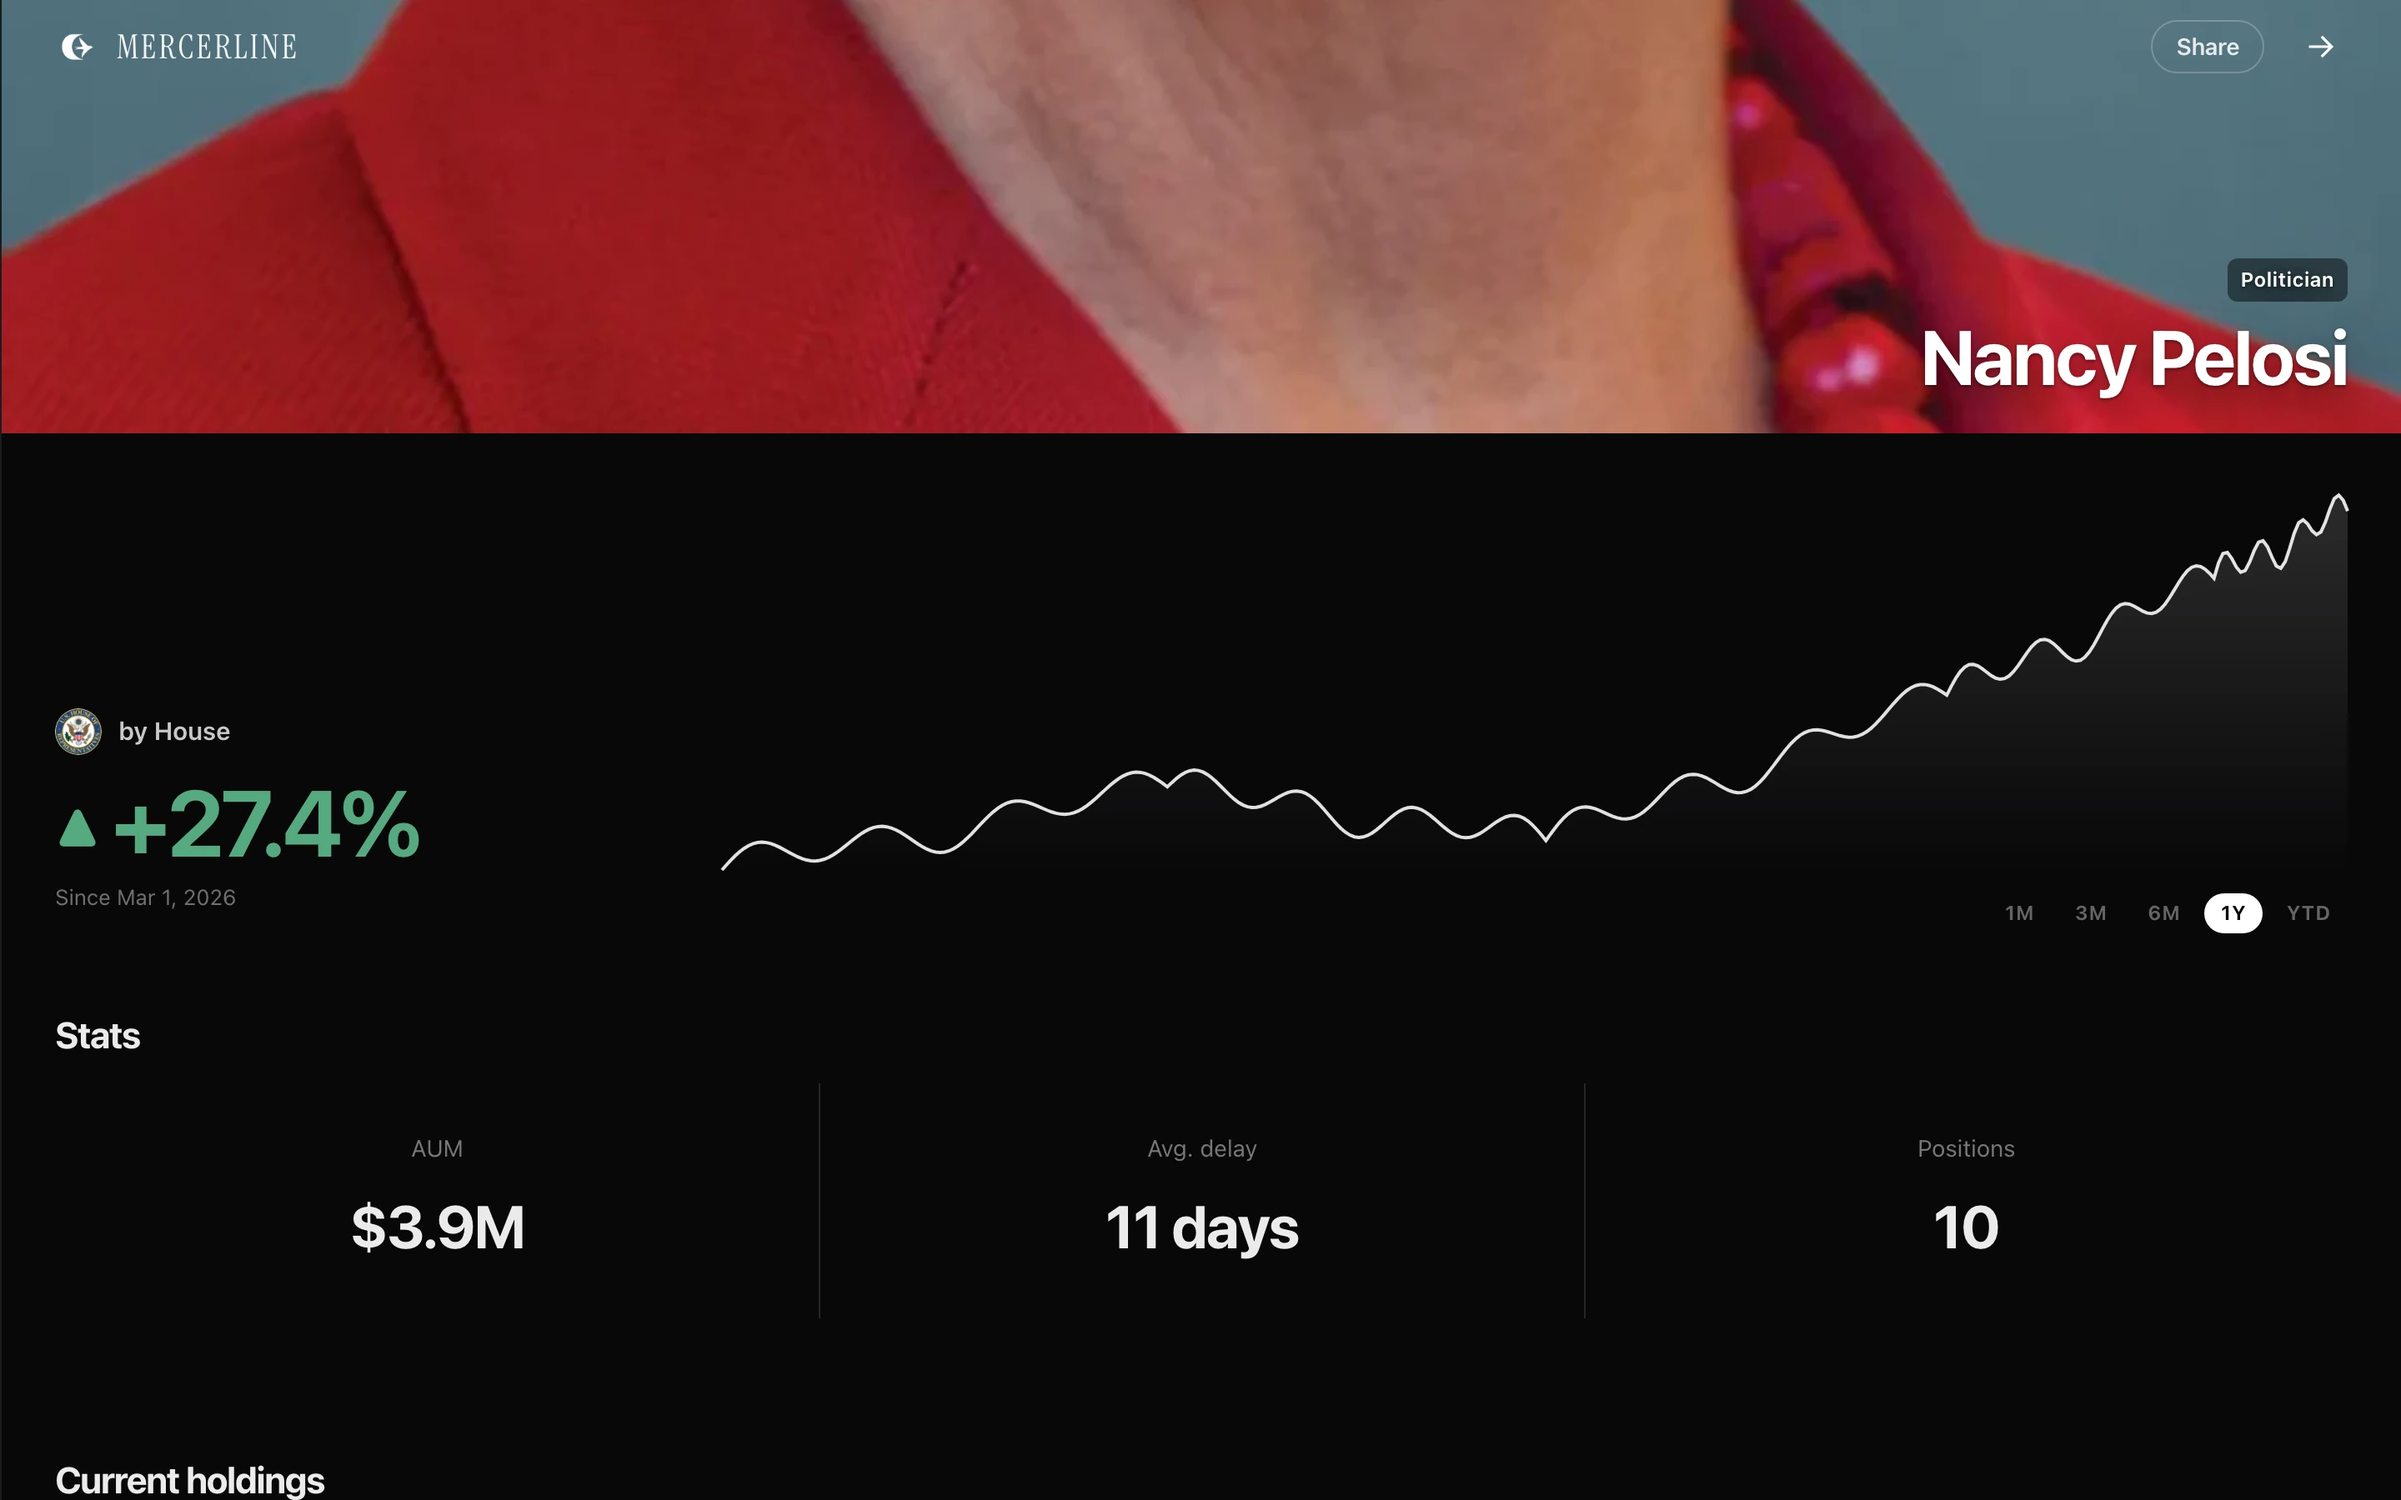
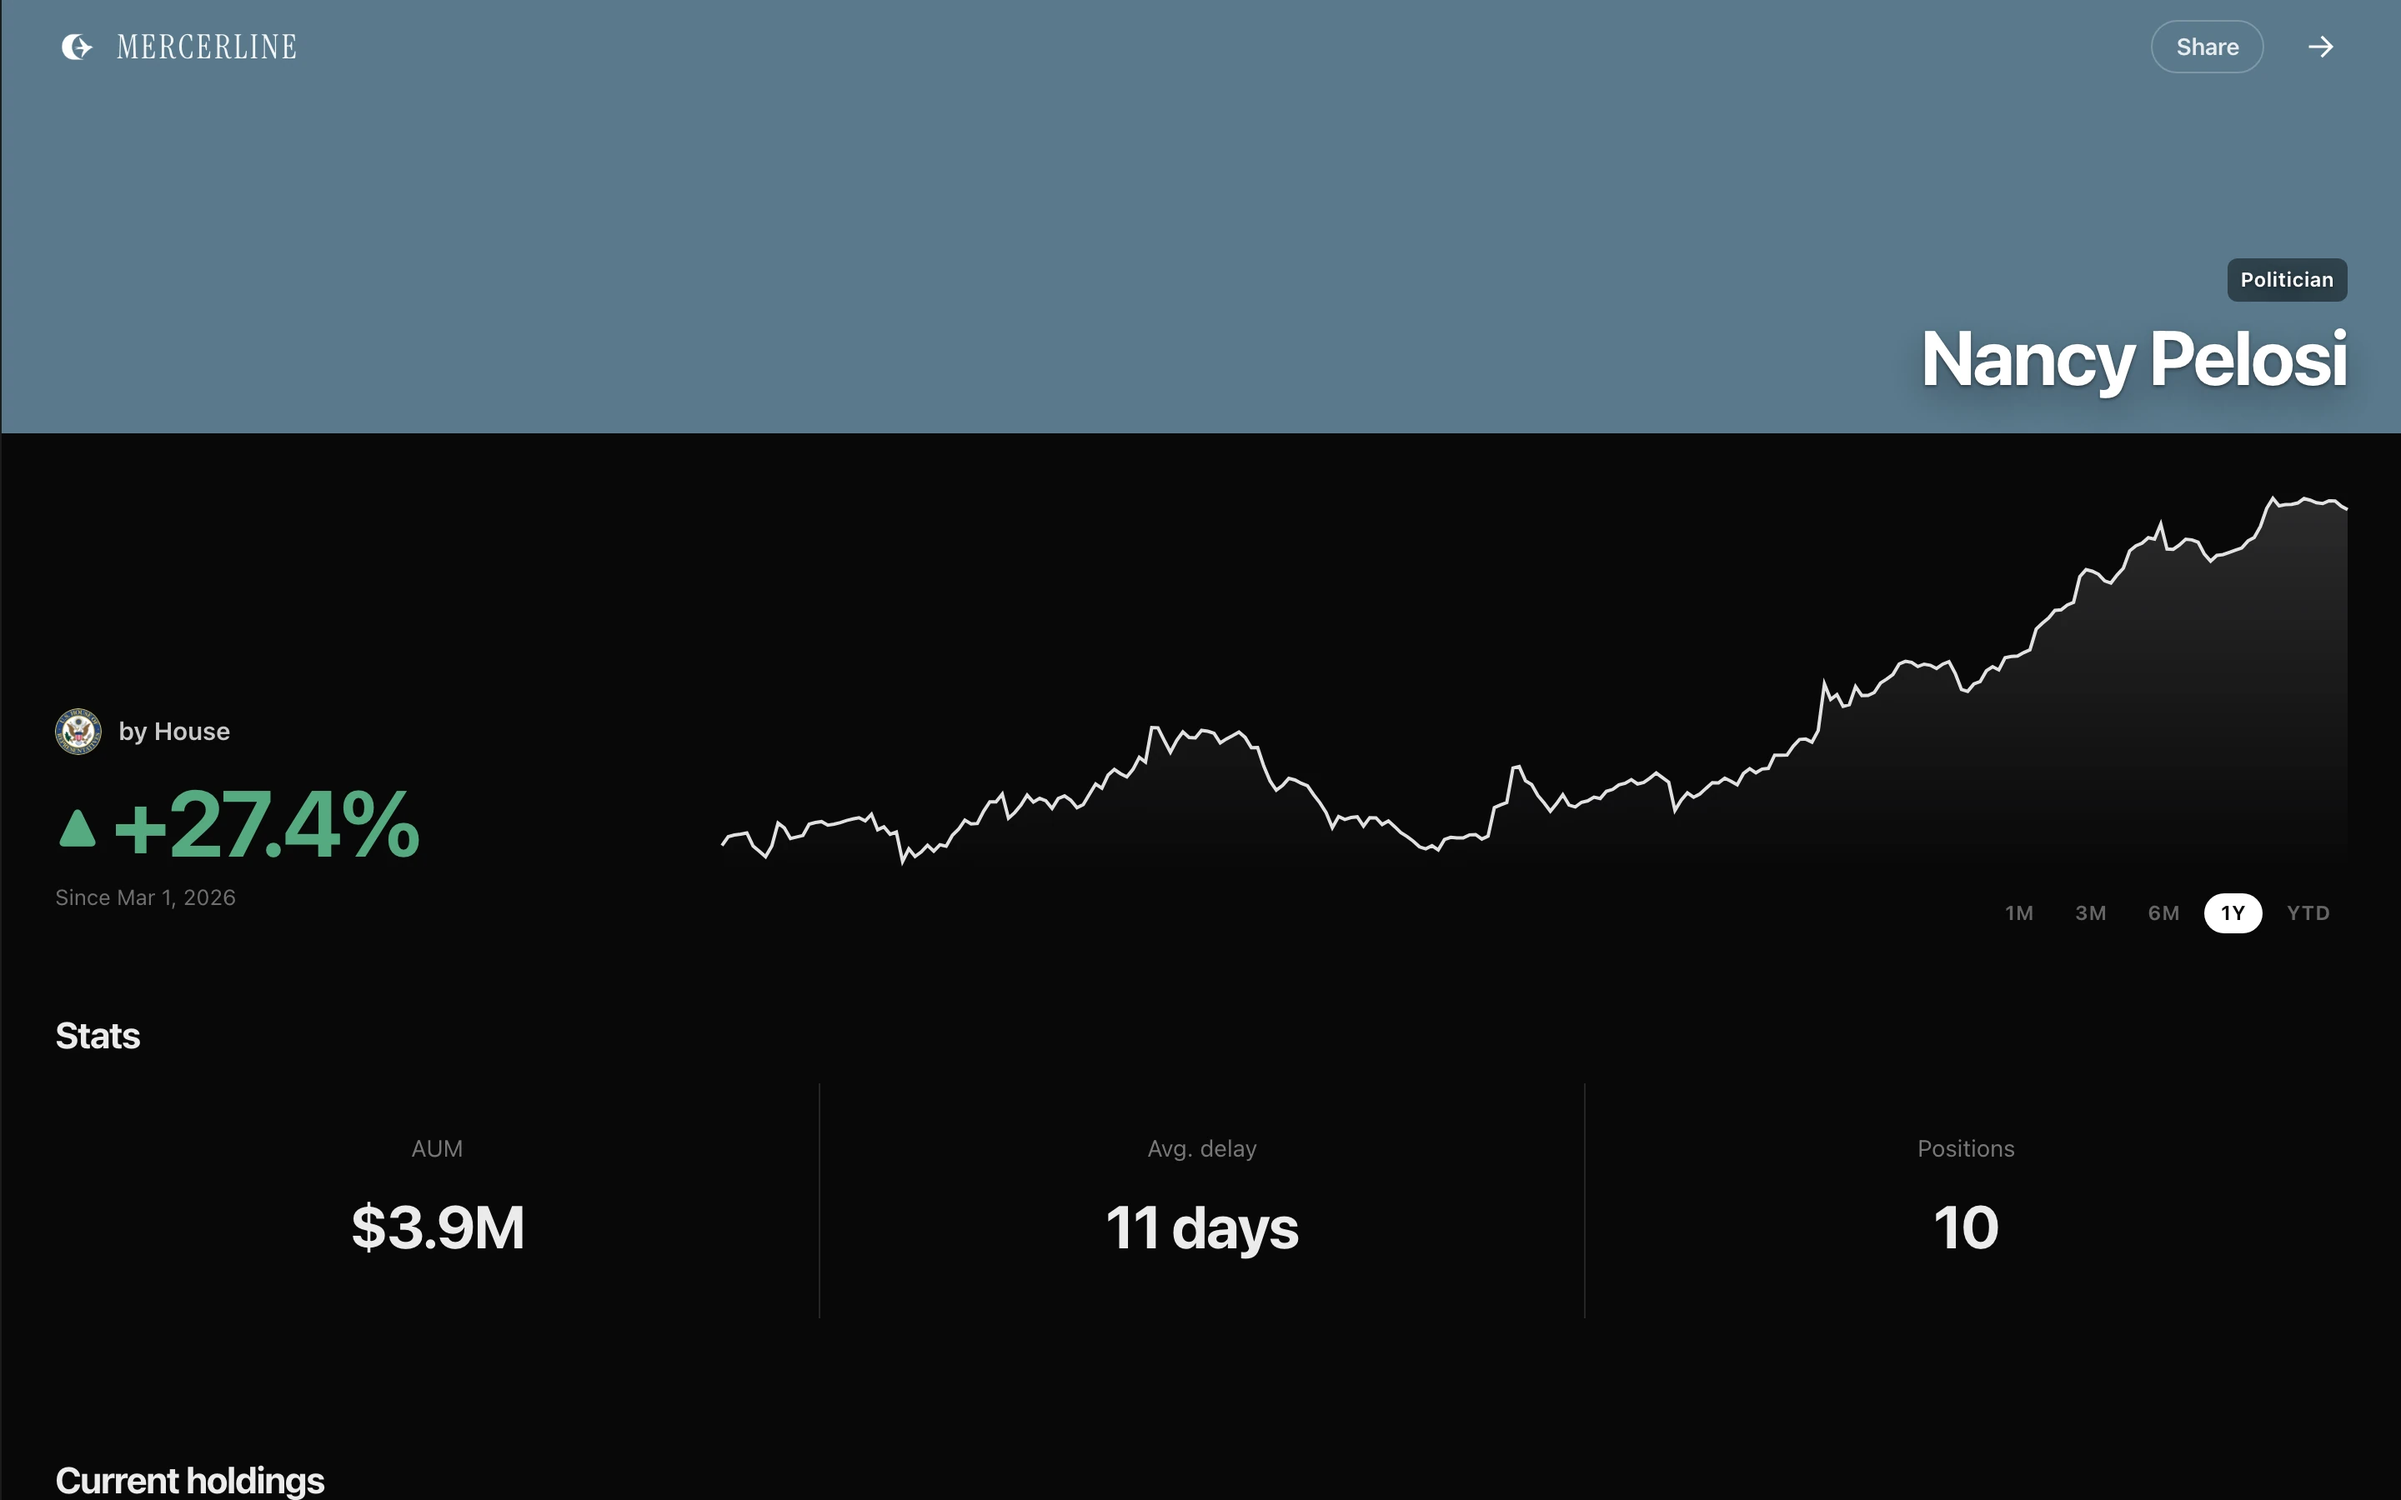
Fix dossier marketing shot: flat hero and a less synthetic Pelosi chart.
Capture keeps the desktop flat-color hero, and the sample curve uses weekday shocks instead of sine waves.

diff --git a/frontend/src/DeepReport.jsx b/frontend/src/DeepReport.jsx
@@ -5,7 +5,6 @@ import {
   formatAnalyseGridValue,
 } from './analyseMockData.js'
 import { isLiveDataMode, isMockDataMode } from './dataMode.js'
-import { isCaptureMode } from './captureMode.js'
 import { AnalyseModelGrid } from './AnalyseModelGrid.jsx'
 import { resolveDocumentOpenUrl } from './documentOpenUrl.js'
 import {
@@ -1166,40 +1165,114 @@ function DeepTrackRecordChartPanel({ trackRecord, loading = false }) {
 
 /** Sample curve so the Pelosi dossier can be reviewed before a verified series exists. */
 function pelosiSamplePerformance() {
+  // Weekday equity path with filing shocks + clustered vol — not sine waves.
   const end = new Date(2026, 8, 23)
   end.setHours(12, 0, 0, 0)
   const targets = { '1M': 0.042, '3M': 0.124, '6M': 0.246, '1Y': 0.274, YTD: 0.198 }
-  const endLevel = targets['1Y']
-  const levelAt = (fraction) => (1 + endLevel) / (1 + fraction) - 1
+
+  let seed = 0xc0ffee11
+  const rand = () => {
+    seed = (Math.imul(seed ^ (seed >>> 16), 0x45d9f3b) + 0x27d4eb2d) | 0
+    return ((seed >>> 0) % 1_000_000) / 1_000_000
+  }
+  const gauss = () => {
+    const u = Math.max(1e-9, rand())
+    const v = Math.max(1e-9, rand())
+    return Math.sqrt(-2 * Math.log(u)) * Math.cos(Math.PI * 2 * v)
+  }
+
+  const shocks = new Map([
+    [340, 0.028],
+    [301, -0.031],
+    [268, 0.041],
+    [229, -0.019],
+    [191, 0.036],
+    [152, -0.027],
+    [118, 0.048],
+    [89, -0.016],
+    [61, 0.022],
+    [38, -0.014],
+    [19, 0.018],
+    [7, -0.008],
+  ])
+
   const ytd = new Date(2026, 0, 1)
   ytd.setHours(12, 0, 0, 0)
   const ytdBack = Math.round((end.getTime() - ytd.getTime()) / 86400000)
+
+  // Absolute cumulative anchors so range chips stay honest vs Explore mocks.
   const anchors = [
     [365, 0],
-    [ytdBack, levelAt(targets.YTD)],
-    [180, levelAt(targets['6M'])],
-    [90, levelAt(targets['3M'])],
-    [30, levelAt(targets['1M'])],
-    [0, endLevel],
+    [ytdBack, targets['1Y'] - targets.YTD],
+    [180, targets['1Y'] - targets['6M']],
+    [90, targets['1Y'] - targets['3M']],
+    [30, targets['1Y'] - targets['1M']],
+    [0, targets['1Y']],
   ].sort((a, b) => b[0] - a[0])
-  const points = []
-  for (let back = 365; back >= 0; back -= 1) {
+
+  const guideAt = (back) => {
     let i = 0
     while (i < anchors.length - 1 && anchors[i + 1][0] > back) i += 1
     const [fromBack, fromLevel] = anchors[i]
     const [toBack, toLevel] = anchors[Math.min(i + 1, anchors.length - 1)]
     const span = fromBack - toBack || 1
-    const t = (fromBack - back) / span
-    const wave = Math.sin(t * Math.PI * 7) * 0.012 + Math.sin(t * Math.PI * 3) * 0.006
-    const cumulative = fromLevel + (toLevel - fromLevel) * t + (fromBack === toBack ? 0 : wave)
+    const t = Math.min(1, Math.max(0, (fromBack - back) / span))
+    const eased = t * t * (3 - 2 * t)
+    return fromLevel + (toLevel - fromLevel) * eased
+  }
+
+  const points = []
+  let residual = 0
+  for (let back = 365; back >= 0; back -= 1) {
     const day = new Date(end)
     day.setDate(end.getDate() - back)
+    const dow = day.getDay()
+    if (dow === 0 || dow === 6) continue
+
+    const vol = back > 220 ? 0.0072 : back > 100 ? 0.0058 : 0.0044
+    residual += gauss() * vol
+    if (rand() < 0.04) residual += (rand() < 0.5 ? -1 : 1) * (0.01 + rand() * 0.02)
+    const shock = shocks.get(back)
+    if (shock != null) residual += shock
+    // Pull noise back toward the guide so the book still finishes near disclosed returns.
+    residual *= 0.965
+    const guide = guideAt(back)
+    const cumulative = guide + residual * 0.72
     const y = day.getFullYear()
     const m = String(day.getMonth() + 1).padStart(2, '0')
     const d = String(day.getDate()).padStart(2, '0')
-    points.push({ ts: `${y}-${m}-${d}T12:00:00`, cumulative })
+    points.push({ ts: `${y}-${m}-${d}T12:00:00`, cumulative, back })
   }
-  return { daily: { points, symbols: 8 } }
+
+  const pinNearest = (backDays, value) => {
+    let best = 0
+    let bestDist = Infinity
+    for (let i = 0; i < points.length; i += 1) {
+      const dist = Math.abs(points[i].back - backDays)
+      if (dist < bestDist) {
+        best = i
+        bestDist = dist
+      }
+    }
+    points[best].cumulative = value
+    for (const j of [best - 1, best + 1]) {
+      if (!points[j]) continue
+      points[j].cumulative = points[j].cumulative * 0.5 + value * 0.5
+    }
+  }
+  pinNearest(365, 0)
+  pinNearest(ytdBack, targets['1Y'] - targets.YTD)
+  pinNearest(180, targets['1Y'] - targets['6M'])
+  pinNearest(90, targets['1Y'] - targets['3M'])
+  pinNearest(30, targets['1Y'] - targets['1M'])
+  pinNearest(0, targets['1Y'])
+
+  return {
+    daily: {
+      points: points.map(({ ts, cumulative }) => ({ ts, cumulative })),
+      symbols: 8,
+    },
+  }
 }
 
 function formatTrackSpan(points) {
@@ -2029,7 +2102,7 @@ export function DeepActorReport({
       expandedHeader={
         <DossierHeroMedia
           src={portrait?.src}
-          heroColor={isCaptureMode() ? null : portrait?.hero || null}
+          heroColor={portrait?.hero || null}
           name={name}
           title={name}
           kicker={typeLabel}
